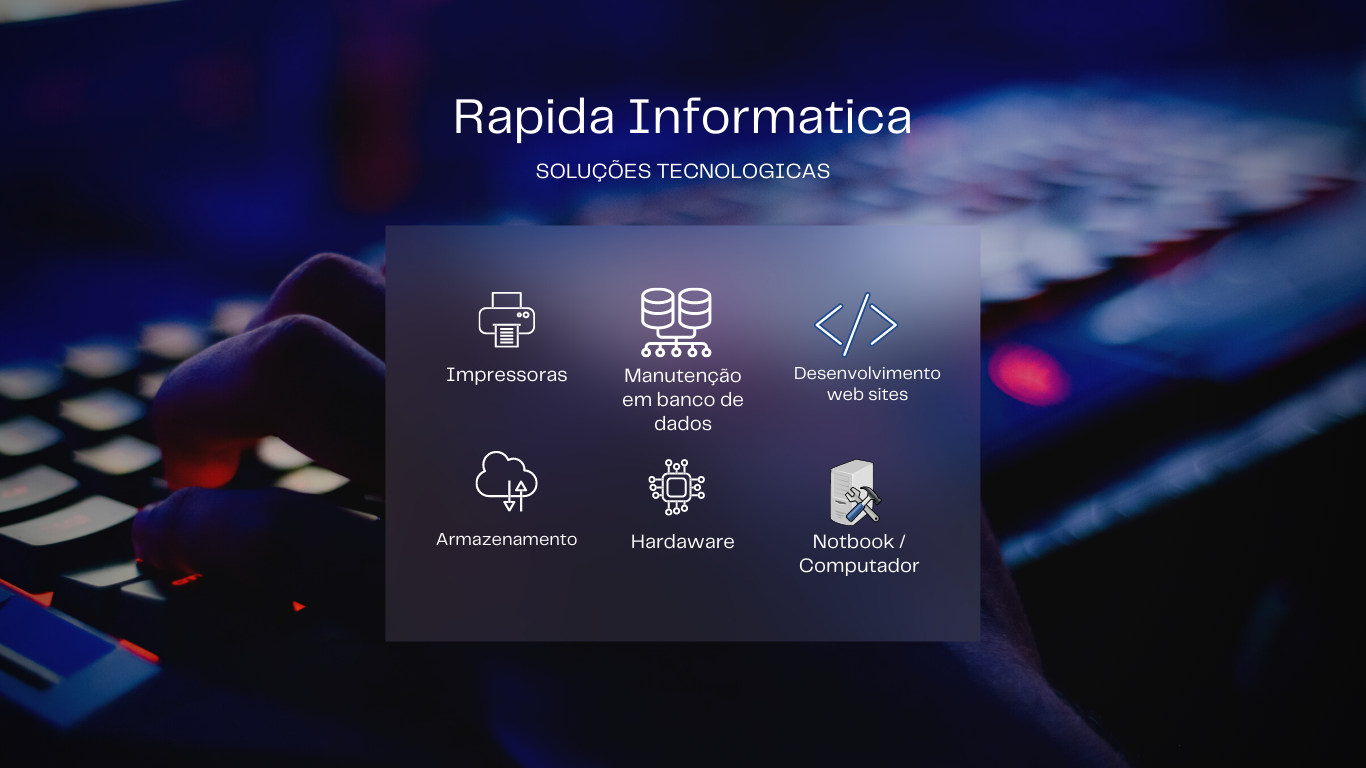
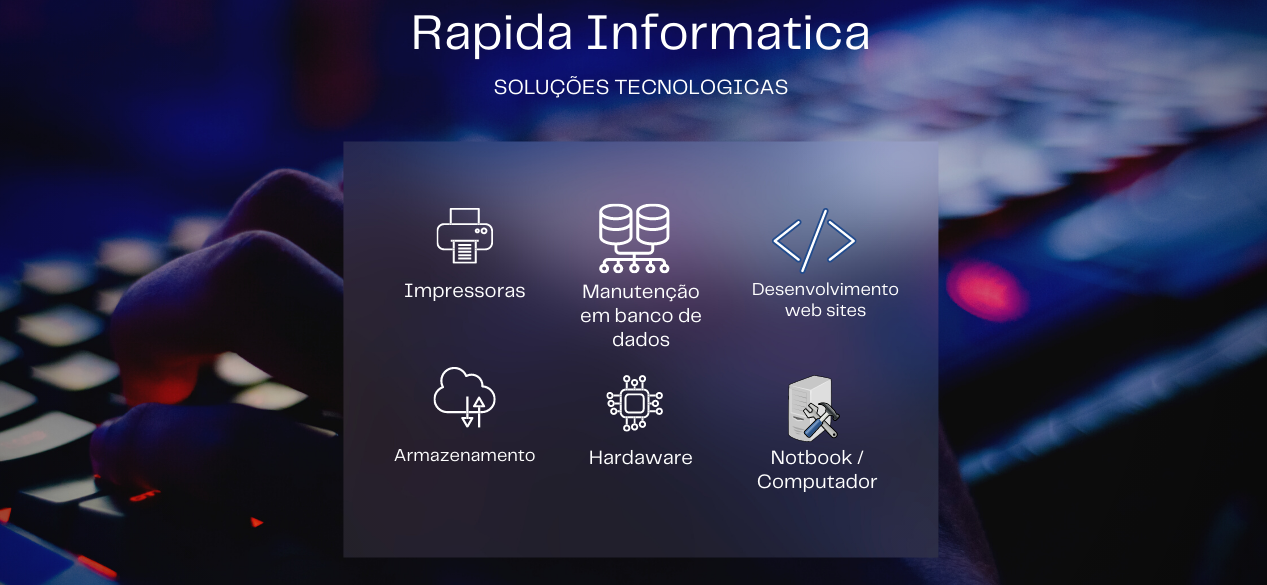
cores alteradas.

diff --git a/servicos.html b/servicos.html
@@ -12,7 +12,7 @@
 
 <body>
   <!-- header-->
-  <header style="background-image: url('/imag/Fundofinal.png');">
+  <header class="headers" style="background-image: url('/imag/fundo1.jpg');">
     <!-- container-->
 
     <div class="container">
@@ -59,11 +59,9 @@
         <!-- ROW CARDS ITEM 1-->
         <div class="row-card-item">
           <img src="" alt="">
-          <p class="nome-servico"><strong>Servico em Nuvem</strong></p>
+          <p class="nome-servico"><strong>Impressoras</strong></p>
           <p class="descricao">
-            Lorem ipsum dolor sit amet consectetur, adipisicing elit. Dolore quisquam quaerat explicabo consequuntur,
-            iure officia modi unde optio vel. Officia adipisci in repellendus aliquam, accusantium quasi incidunt
-            voluptatem ullam placeat.
+            Manutenção de impressoras , limpeza e troca de toners
           </p>
         </div>
         <!-- FIM ROWS CARD ITEM 1-->
@@ -71,11 +69,9 @@
         <!-- ROW CARDS ITEM 2 -->
         <div class="row-card-item">
           <img src="" alt="">
-          <p class="nome-servico"><strong>Servico em Nuvem</strong></p>
+          <p class="nome-servico"><strong>Manutenção em Banco de Dados</strong></p>
           <p class="descricao">
-            Lorem ipsum dolor sit amet consectetur, adipisicing elit. Dolore quisquam quaerat explicabo consequuntur,
-            iure officia modi unde optio vel. Officia adipisci in repellendus aliquam, accusantium quasi incidunt
-            voluptatem ullam placeat.
+            Manutenção em banco de dados para empresa de pequeno porte
           </p>
         </div>
         <!-- FIM ROWS CARD ITEM 2-->
@@ -83,11 +79,9 @@
         <!-- ROW CARDS ITEM 3-->
         <div class="row-card-item">
           <img src="" alt="">
-          <p class="nome-servico"><strong>Servico em Nuvem</strong></p>
+          <p class="nome-servico"><strong>Desenvolvimento Web Sites</strong></p>
           <p class="descricao">
-            Lorem ipsum dolor sit amet consectetur, adipisicing elit. Dolore quisquam quaerat explicabo consequuntur,
-            iure officia modi unde optio vel. Officia adipisci in repellendus aliquam, accusantium quasi incidunt
-            voluptatem ullam placeat.
+            Desenvolvimento de web sites, manutencao , repaginação. layouts com responsividade fluida sempre
           </p>
         </div>
         <!-- FIM ROWS CARD ITEM 3-->
@@ -95,11 +89,8 @@
         <!-- ROW CARDS ITEM 4-->
         <div class="row-card-item">
           <img src="" alt="">
-          <p class="nome-servico"><strong>Servico em Nuvem</strong></p>
-          <p class="descricao">
-            Lorem ipsum dolor sit amet consectetur, adipisicing elit. Dolore quisquam quaerat explicabo consequuntur,
-            iure officia modi unde optio vel. Officia adipisci in repellendus aliquam, accusantium quasi incidunt
-            voluptatem ullam placeat.
+          <p class="nome-servico"><strong>UI / UX</strong></p>
+          Criação de design de sites, criação de logos , blogs e Trafego pago.
           </p>
         </div>
         <!-- FIM ROWS CARD ITEM 4-->
@@ -107,11 +98,9 @@
         <!-- ROW CARDS ITEM 5-->
         <div class="row-card-item">
           <img src="" alt="">
-          <p class="nome-servico"><strong>Servico em Nuvem</strong></p>
+          <p class="nome-servico"><strong>Hardware</strong></p>
           <p class="descricao">
-            Lorem ipsum dolor sit amet consectetur, adipisicing elit. Dolore quisquam quaerat explicabo consequuntur,
-            iure officia modi unde optio vel. Officia adipisci in repellendus aliquam, accusantium quasi incidunt
-            voluptatem ullam placeat.
+            Manutenção de Hardware montagem , limpeza , troca.
           </p>
         </div>
         <!-- FIM ROWS CARD ITEM 5-->
@@ -119,11 +108,9 @@
         <!-- ROW CARDS ITEM 6-->
         <div class="row-card-item">
           <img src="" alt="">
-          <p class="nome-servico"><strong>Servico em Nuvem</strong></p>
+          <p class="nome-servico"><strong>Computador / Nobtook</strong></p>
           <p class="descricao">
-            Lorem ipsum dolor sit amet consectetur, adipisicing elit. Dolore quisquam quaerat explicabo consequuntur,
-            iure officia modi unde optio vel. Officia adipisci in repellendus aliquam, accusantium quasi incidunt
-            voluptatem ullam placeat.
+            Venda e compra de Maquinas.
           </p>
         </div>
         <!-- FIM ROWS CARD ITEM 6-->

diff --git a/css/style.css b/css/style.css
@@ -9,11 +9,17 @@
     font-family: 'inter', sans-serif;
 }
 :root{
-    --navbar: #000;
-    --bodycolor: #fff;
-    --colorazul: #00caf8;
+    --azul: #0280af;
+    --black: #000;
+    --white: #fff;
+    --azulF: #0374a5;
+    --eminencia: #7a2e95;
+    --Prico: #051924;
 
 }
+
+
+   
 body{
     background-color: var(--bodycolor);
 }
@@ -28,8 +34,7 @@ h3{
 }
 
 p{
-    color: #000;
-}
+    color:var(--white)}
 
 .container{
     max-width: 1400px;
@@ -38,7 +43,7 @@ p{
 }
 
 .bck{
-    background-image: url('/imag/fundowbesite.jpg');
+    background-image: url('/imag/fundoprincipal.jpg');
     background-position: center;
     background-size: cover;
     background-attachment: fixed;
@@ -58,7 +63,7 @@ nav ul{
 }
 
 nav ul a{
-    color: var(--bodycolor);
+    color: var(--white);
     margin: 0 25px;
     text-transform: uppercase;
     font-size: 14px;
@@ -66,13 +71,13 @@ nav ul a{
 }
 
 nav a{
-color: var(--bodycolor);
+color: var(--white);
 
 }
 
 nav ul a:not(.btn)::after{
-   content: " "; 
-   background-color: var(--bodycolor);
+   content: ''; 
+   background-color: var(--eminencia);
    height: 3px;
    width: 0%;
    display: block;
@@ -101,8 +106,8 @@ nav .close-icon{
 /* botao contato */
 
 .btn{
-    background-color: var(--navbar);
-    color: var(--bodycolor);
+    background-color: var(--white);
+    color: var(--black);
     padding: 15px 20px;
     cursor: pointer;
     border-radius: 10px;
@@ -112,7 +117,11 @@ nav .close-icon{
 
 
 .btn:hover{
-    background-color: #3580db;
+    background-color: var(--azul);
+}
+
+.text-principal{
+    color: var(--white);
 }
 
 .btn.animate-btn{
@@ -121,7 +130,7 @@ nav .close-icon{
 
 @keyframes animate-outline{
     from{
-      outline: 0px solid #3580db;
+      outline: 0px solid var(--white);
     }
     to{
       outline: 15px solid #3580db;
@@ -142,7 +151,7 @@ nav .close-icon{
 
 .banner .baner h1{
  font-size: 96px;
- color: var(--bodycolor);
+ color: var(--white);
 }
 
 .banner .baner p{
@@ -184,7 +193,9 @@ nav .close-icon{
 .clientes h3,
 .clientes p{
 text-align: center;
-}.clientes .container div{
+}
+
+.clientes .container div{
     display: flex;
     align-items: center;
     justify-content: space-around;
@@ -193,7 +204,7 @@ text-align: center;
 
 
 .footer{
-    background-color: var(--colorazul);
+    background-color: var(--azulF);
     text-align: center;
 }
 
@@ -204,6 +215,10 @@ text-align: center;
     padding: 20px;
     margin: 19px;
     border-radius: 10px;
+}
+
+footer p{
+color: var(--white);
 }
 
 .footer a img{
@@ -234,7 +249,7 @@ text-align: center;
 
 .sobre .sobre-texto p {
     margin: 18px;
-    color: var(--navbar);
+    color: var(--white);
 }
 
 .sobre .sobre-image{
@@ -250,10 +265,16 @@ text-align: center;
 
 .servicos h3{
     text-align: center;
+    color: var(--white);
 }
 
 .servicos .container > p{
      text-align: center;
+     color: var(--white)
+}
+
+.servicos .container{
+background-color: var(--eminencia);
 }
 
 .servicos .rows-cards {
@@ -264,7 +285,7 @@ text-align: center;
 }
 
 .servicos .row-card-item{
-    background-color: var(--colorazul);
+    background-color: var(--black);
     width: 350px;
     padding: 20px;
     border-radius: 14px;
@@ -273,11 +294,15 @@ text-align: center;
 }
 
 .servicos .row-card-item:hover{
-    background-color: #3580db;
+    background-color: var(--eminencia);
 }
 
 .servicos .row-card-item:hover p{
-    color: var(--bodycolor);
+    color: var(--white);
+}
+
+.servicos .row-card-item p{
+    color: var(--white);
 }
 
 .servicos .row-card-item img {
@@ -471,7 +496,13 @@ opacity: 0.4;
 
 
 
+.headers{
+        min-height:100vh;
+ }
 
+ header{
+    background-color: var(--white);
+ }
 
 
 
